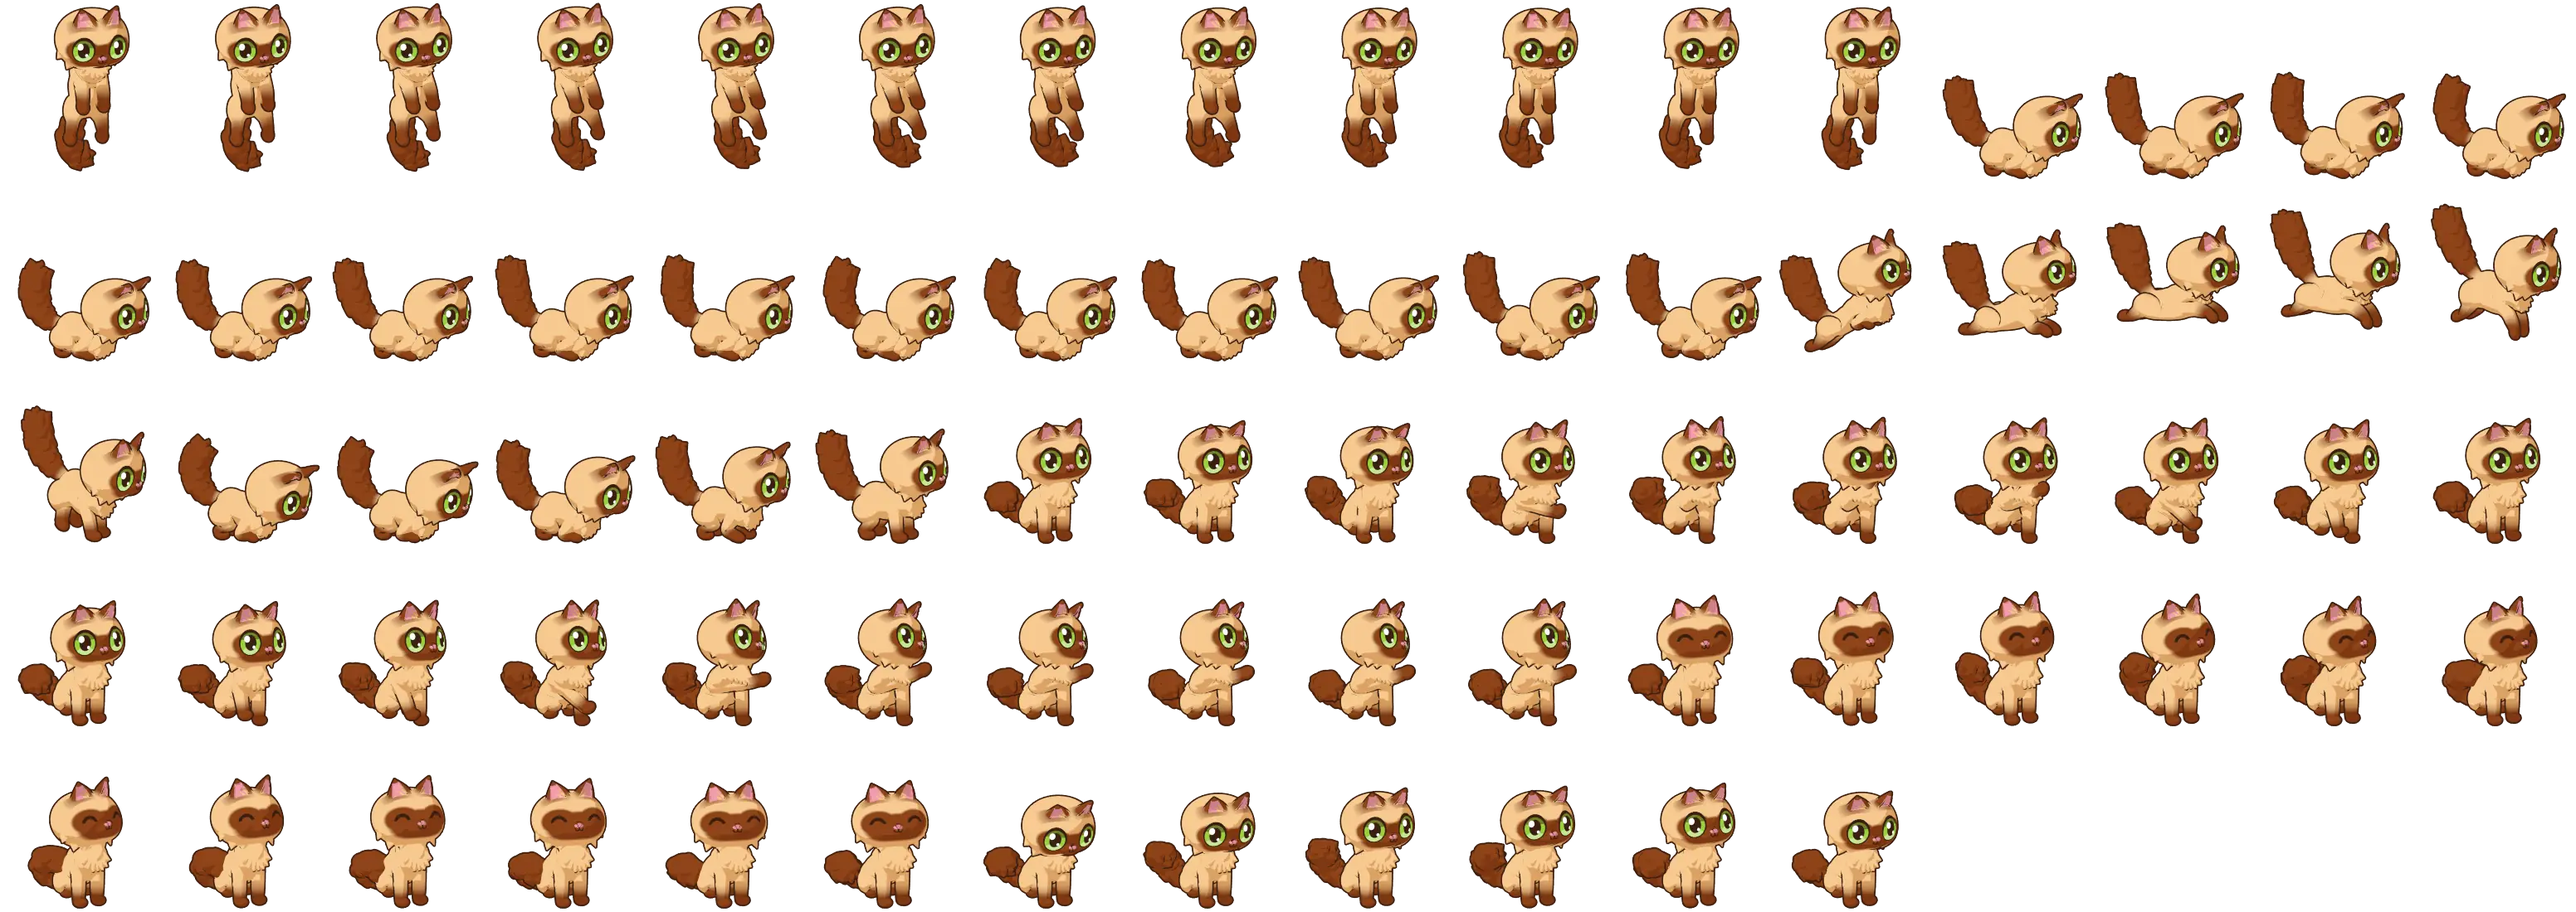
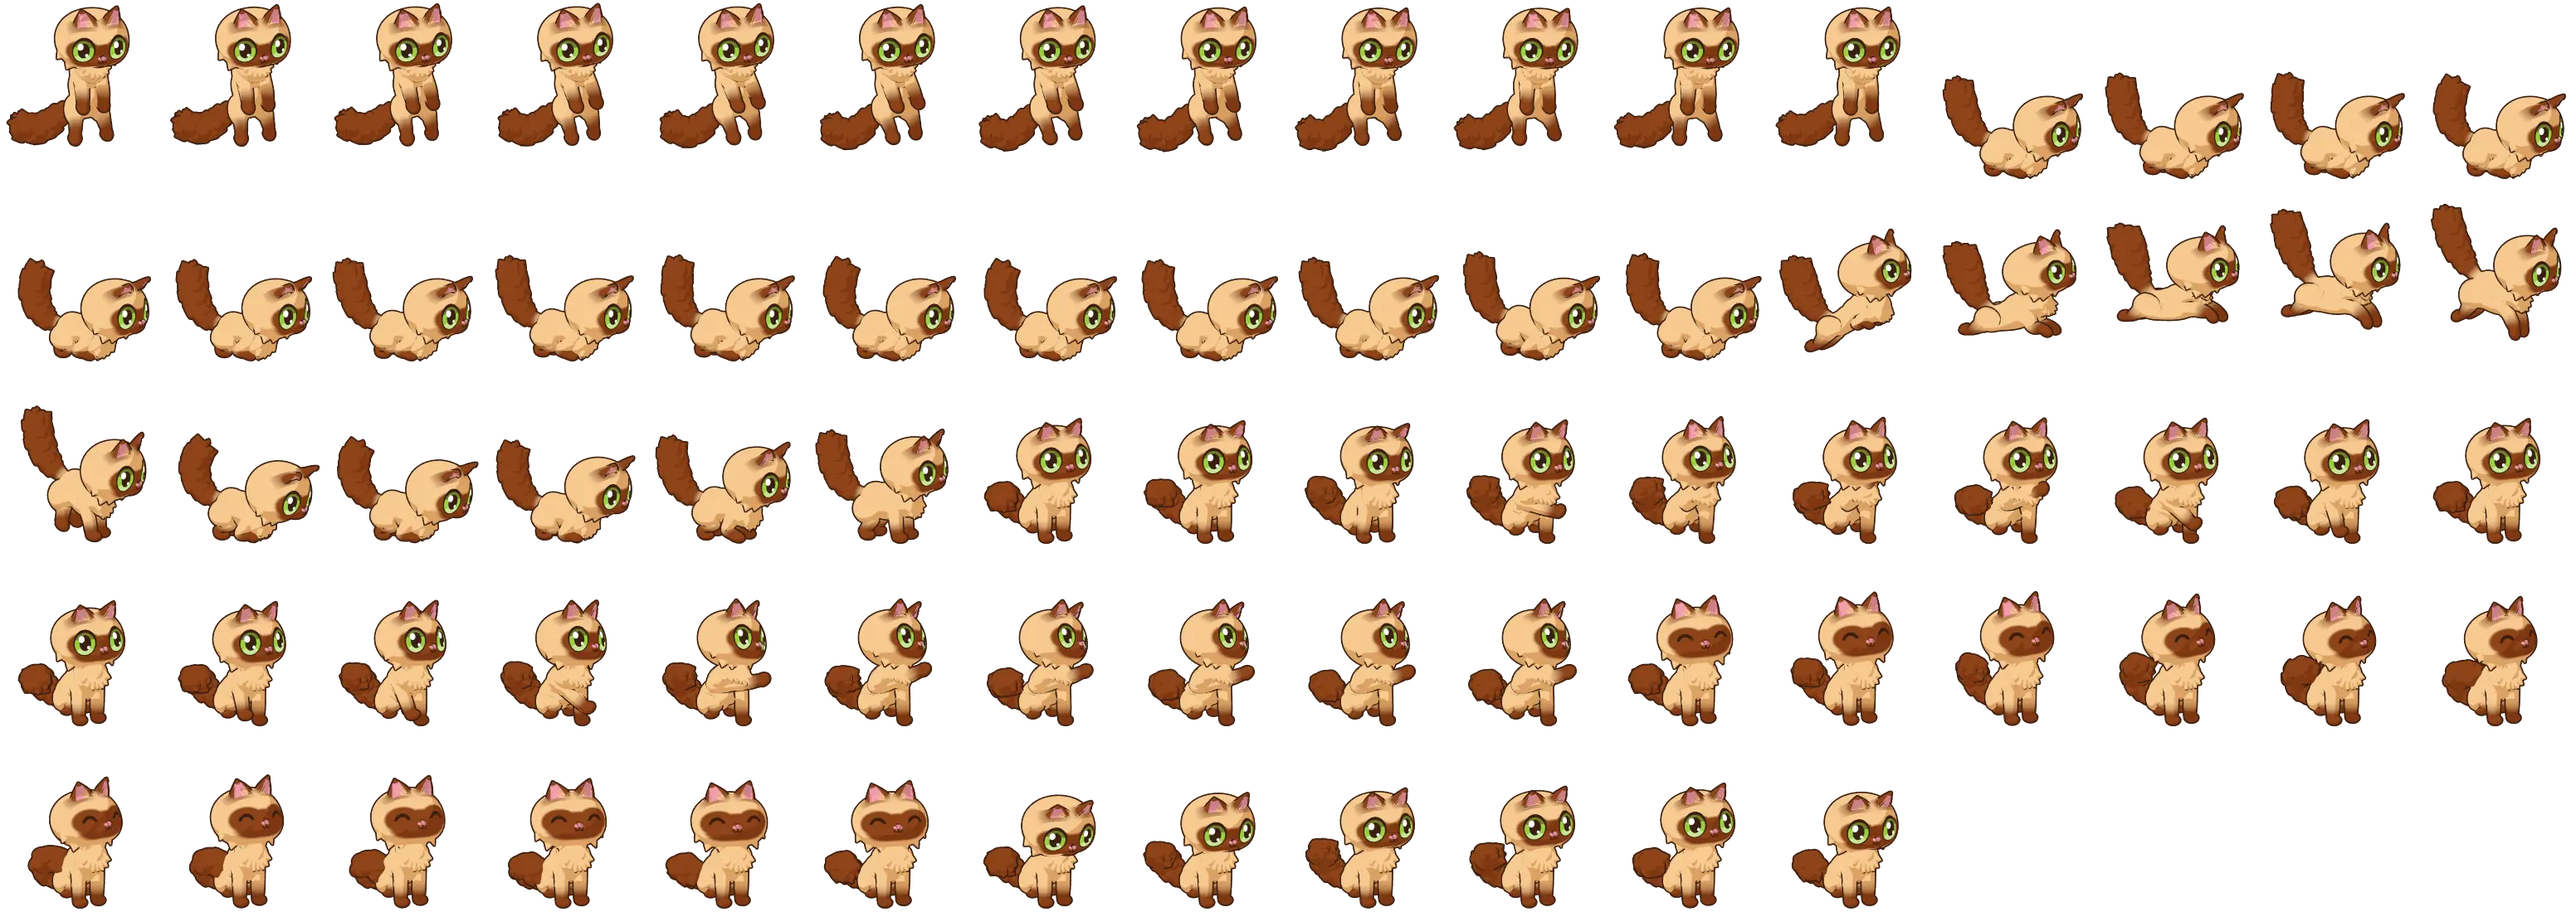
Redraw the kitty's held pose and keep one speech bubble at a time
The hind legs now hang apart, the tail hangs clear behind them, and only
the held cells of each play sheet changed. The Observe balloon waits while
the kitty is talking.

Changed region(s): [[0.0, 0.0927, 0.75, 0.1855]]

diff --git a/index.html b/index.html
@@ -16,7 +16,7 @@
 <link rel="apple-touch-icon" href="assets/icons/eye-180.png">
 <link rel="preload" href="assets/fonts/baloo-da-2-var-latin.woff2" as="font" type="font/woff2" crossorigin>
 <link rel="preload" href="assets/fonts/hind-siliguri-400-latin.woff2" as="font" type="font/woff2" crossorigin>
-<script type="importmap">{"imports": {"./js/analytics.js": "./js/analytics.js?v=96af613f", "./js/audio.js": "./js/audio.js?v=ac5f1b08", "./js/beats.js": "./js/beats.js?v=0d4a2ec2", "./js/beatworlds.js": "./js/beatworlds.js?v=ba3038b6", "./js/bubblepop.js": "./js/bubblepop.js?v=1f943c72", "./js/bubbles.js": "./js/bubbles.js?v=a7a9da2e", "./js/clock.js": "./js/clock.js?v=8125c7a6", "./js/fx.js": "./js/fx.js?v=f9c8771a", "./js/kitty.js": "./js/kitty.js?v=7ed989a3", "./js/main.js": "./js/main.js?v=480b38a8", "./js/observe.js": "./js/observe.js?v=ebdbe8fa", "./js/paint.js": "./js/paint.js?v=0e55c193", "./js/panopticon.js": "./js/panopticon.js?v=a65b4065", "./js/stats.js": "./js/stats.js?v=1988723d", "./js/themes.js": "./js/themes.js?v=15cefb94", "./js/tour.js": "./js/tour.js?v=14ec0b47"}}</script>
+<script type="importmap">{"imports": {"./js/analytics.js": "./js/analytics.js?v=96af613f", "./js/audio.js": "./js/audio.js?v=ac5f1b08", "./js/beats.js": "./js/beats.js?v=0d4a2ec2", "./js/beatworlds.js": "./js/beatworlds.js?v=ba3038b6", "./js/bubblepop.js": "./js/bubblepop.js?v=1f943c72", "./js/bubbles.js": "./js/bubbles.js?v=a7a9da2e", "./js/clock.js": "./js/clock.js?v=8125c7a6", "./js/fx.js": "./js/fx.js?v=f9c8771a", "./js/kitty.js": "./js/kitty.js?v=7ed989a3", "./js/main.js": "./js/main.js?v=4c40639a", "./js/observe.js": "./js/observe.js?v=ebdbe8fa", "./js/paint.js": "./js/paint.js?v=0e55c193", "./js/panopticon.js": "./js/panopticon.js?v=a65b4065", "./js/stats.js": "./js/stats.js?v=1988723d", "./js/themes.js": "./js/themes.js?v=15cefb94", "./js/tour.js": "./js/tour.js?v=14ec0b47"}}</script>
 <link rel="stylesheet" href="css/site.css?v=6d423325">
 <script>
   // Decide before first paint, so the boot screen never flashes for returning visitors.
@@ -612,7 +612,7 @@
   </div>
 </div>
 
-<script type="module" src="js/main.js?v=480b38a8"></script>
+<script type="module" src="js/main.js?v=4c40639a"></script>
 <script>addEventListener('load', function () { setTimeout(function () { if (!window.tahsinUp) document.documentElement.className = 'no-js'; }, 400); });</script>
 </body>
 </html>

diff --git a/js/main.js b/js/main.js
@@ -534,6 +534,7 @@ $('balloon-x').addEventListener('click', hideBalloon);
 $('balloon-go').addEventListener('click', () => { balloon.hidden = true; open('observe'); });
 function inviteObserve() {
   if (session.counted.balloon || wins.get('observe').open || touring || hooked()) return;
+  if (document.querySelector('.kitty__say:not([hidden])')) return void setTimeout(inviteObserve, 8000);   // the kitty is talking: one balloon at a time
   if (sheets.length || $('player').classList.contains('is-beat')) { setTimeout(inviteObserve, 15000); return; }   // a sheet fills a phone's screen, and a game wants its corner, so it waits
   session.counted.balloon = 1;
   const n = session.events.length;

diff --git a/_dev/kitty/blender/actions_interaction.py b/_dev/kitty/blender/actions_interaction.py
@@ -13,7 +13,7 @@ moves it across the screen.
 The actions
   held    hanging by the scruff: body straight down below it, front paws dangling, hind legs and tail hanging loose,
           a little swing (loop). The scruff stays at one point (HELD_SCRUFF, also returned as the held action's
-          'scruff'), so the page can pin that point to the cursor; the hind paws hang just above the floor.
+          'scruff'), so the page can pin that point to the cursor; the hind paws hang above the floor.
   stalk   low crouch, eyes locked forward, rear end wiggling, tail tip twitching (loop, turned to travel)
   pounce  crouch, spring, a stretched leap arcing up and down in place, land with a squash, paws pinning, and up to
           standing, so sit_down follows on (turned to travel)
@@ -41,7 +41,8 @@ sys.path.append(os.path.dirname(os.path.abspath(__file__)))
 import cat, actions_idles
 
 FPS = 12
-HELD_SCRUFF = Vector((0.0, 0.0, 0.57))   # where the scruff hangs, in the rig's space (held() works it out)
+HELD_SCRUFF = Vector((0.0, 0.0, 1.0004375))   # where the scruff hangs, in the rig's space: fixed, so the cell and
+                                              # the page's cursor point stay put whatever the legs do
 LEGS = [f'leg.{k}.{s}' for k in ('front', 'back') for s in ('L', 'R')]
 TAIL = [f'tail.0{i}' for i in range(1, 7)]
 
@@ -229,9 +230,6 @@ def add_eyes_shut(arm):
 
 # ---------- the poses, one function per action: pose(arm, i) for frame index i = 0..frames-1 ----------
 
-HELD_LOW = 0.03       # how high the dangling hind paws stay above the floor
-
-
 def scruff_point(arm):
     """The loose skin at the back of the neck, just behind the skull, in the rig's space."""
     bpy.context.view_layer.update()
@@ -240,10 +238,10 @@ def scruff_point(arm):
 
 
 def held(arm, i, n=12):
-    """Hanging from the scruff: the body straight down below it, the front paws dangling limp in front of the chest,
-    the hind legs hanging loose, the tail hanging down with its tip curled; the whole cat swings a little about the
-    scruff and the legs and tail swing a beat behind. The scruff stays at HELD_SCRUFF in every frame."""
-    global HELD_SCRUFF
+    """Hanging from the scruff, relaxed: the body straight down below it, the front paws dangling limp in front of
+    the chest, the two hind legs hanging apart and loose (the near one a little forward, the far one a little bent),
+    the tail hanging behind them and curling out to screen-left, clear of the legs. The whole cat swings a little
+    about the scruff; the legs and tail swing a beat behind, each on its own beat. The scruff stays at HELD_SCRUFF."""
     t = i / n
     cat.pose_rest(arm)
     set_eyes(arm, 0)
@@ -259,21 +257,26 @@ def held(arm, i, n=12):
         y = 1 if s_ == 'L' else -1
         cat.aim(arm, {f'leg.front.{s_}.upper': hang((0.45, 0.08 * y, -1), 0.10 + o, 0.5),
                       f'leg.front.{s_}.lower': hang((0.25, 0.03 * y, -1), 0.14 + o, 0.7),
-                      f'leg.front.{s_}.paw': hang((0.55, 0, -0.8), 0.18 + o, 0.9),
-                      f'leg.back.{s_}.upper': hang((0.30, 0.34 * y, -1), 0.12 + o, 0.5),
-                      f'leg.back.{s_}.lower': hang((0.10, 0.16 * y, -1), 0.16 + o, 0.7),
-                      f'leg.back.{s_}.paw': hang((0.45, 0.02 * y, -1), 0.20 + o, 0.9)})
-    # behind the hind legs, the tip curling away to the far side, so both hind legs show
-    tail = [(-0.6, 0, -1), (-0.5, 0.05, -1), (-0.35, 0.15, -1), (-0.2, 0.35, -0.9), (-0.1, 0.7, -0.5), (0.0, 0.9, 0.1)]
-    for k, (name, d) in enumerate(zip(TAIL, tail)):
-        cat.aim(arm, {name: hang(d, 0.12 + 0.05 * k, 0.6 + 0.15 * k)})
-    # the scruff to HELD_SCRUFF (worked out once, on the first frame, so the paws hang HELD_LOW above the floor)
+                      f'leg.front.{s_}.paw': hang((0.55, 0, -0.8), 0.18 + o, 0.9)})
+    # hind legs: apart, hanging nearly straight; the near (R) one a touch forward, the far (L) one bent at the hock
+    for name, d, lag, amt in HIND:
+        cat.aim(arm, {name: hang(d, lag, amt)})
+    for k, (name, d) in enumerate(zip(TAIL, HELD_TAIL)):
+        cat.aim(arm, {name: hang(d, 0.30 + 0.06 * k, 0.5 + 0.12 * k)})
     s = scruff_point(arm)
-    move_root(arm, Matrix.Translation(-s))
-    if i == 0:
-        HELD_SCRUFF = Vector((0, 0, HELD_LOW - lowest_point()))
-    move_root(arm, Matrix.Translation(HELD_SCRUFF))
+    move_root(arm, Matrix.Translation(HELD_SCRUFF - s))
+    if i == 0: print(f'  held: lowest point {lowest_point():.3f} (floor {FLOOR})')
     move_root(arm, about(HELD_SCRUFF, view, 4 * wave(t)))     # the swing
+
+
+HIND = [   # bone, direction in the rig's space (x forward, y the cat's left, z up), swing lag (cycles), swing amount
+    ('leg.back.R.upper', (0.60, -0.30, -1), 0.14, 0.5), ('leg.back.R.lower', (0.30, -0.05, -1), 0.20, 0.8),
+    ('leg.back.R.paw', (0.50, -0.05, -1), 0.26, 1.0),
+    ('leg.back.L.upper', (0.30, 0.50, -1), 0.40, 0.5), ('leg.back.L.lower', (-0.05, 0.25, -1), 0.46, 0.8),
+    ('leg.back.L.paw', (0.45, 0.05, -1), 0.52, 1.0)]
+# behind the hind legs (-x is away from the camera) and out to the near side, the tip curling up: screen-left of them
+HELD_TAIL = [(-0.75, -0.7, -0.45), (-0.5, -0.75, -0.75), (-0.3, -0.75, -0.8), (-0.25, -0.85, -0.3), (-0.2, -0.8, 0.2),
+             (-0.1, -0.6, 0.6)]
 
 
 def crouch(arm, depth=1.0, rump=0.0, tread=0.0, reach=0.0, yaw=0.0):

diff --git a/_dev/kitty/blender/render_sprites.py b/_dev/kitty/blender/render_sprites.py
@@ -8,6 +8,7 @@ Run it with Blender (it renders PNG frames and a meta.json into OUT; pack_sprite
       [--coats aero,baroque]          only these coats (all six by default)
       [--actions walk,sit]            only these actions (all by default)
       [--measure]                     only work out the cell and write meta.json, render nothing
+      [--remake held]                 with --blend: make these actions_interaction actions again (the rest are kept)
 
 What it does
   1. Makes every action from actions_locomotion, actions_idles and actions_interaction on the rig.
@@ -97,6 +98,10 @@ def main():
     if 'kitty_actions' in sc:           # a .blend saved by --save already has every action made
         acts = json.loads(sc['kitty_actions'])
         actions_idles.add_face_controls(arm); actions_interaction.add_eyes_shut(arm)
+        if opt('--remake'):
+            new = {a['name']: a for a in actions_interaction.build(arm, only=opt('--remake').split(','))}
+            acts = [new.get(a['name'], a) for a in acts]
+            sc['kitty_actions'] = json.dumps(acts)
     else:
         acts = actions_locomotion.build(arm) + actions_idles.build(arm) + actions_interaction.build(arm)
         sc['kitty_actions'] = json.dumps(acts)
